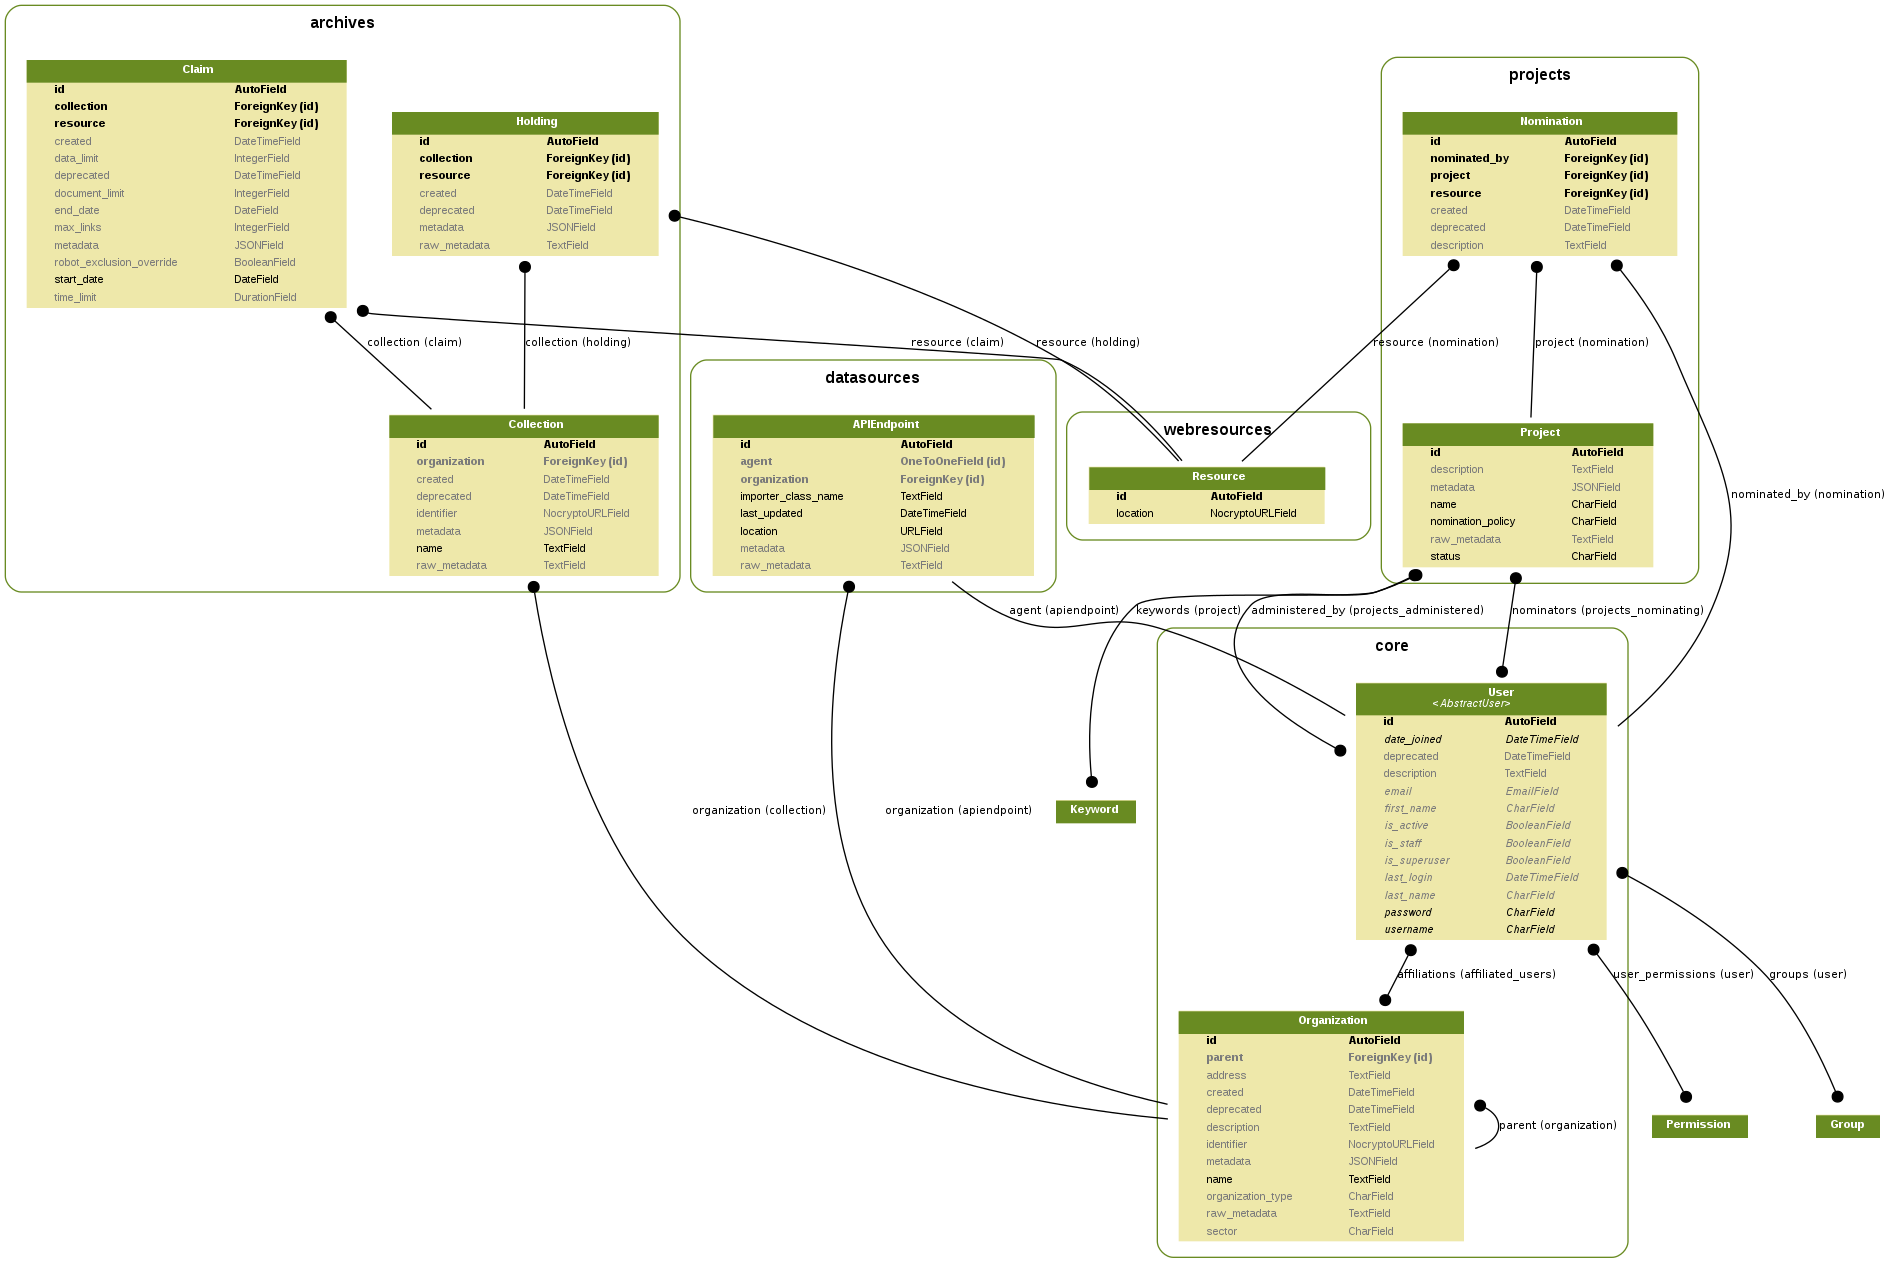
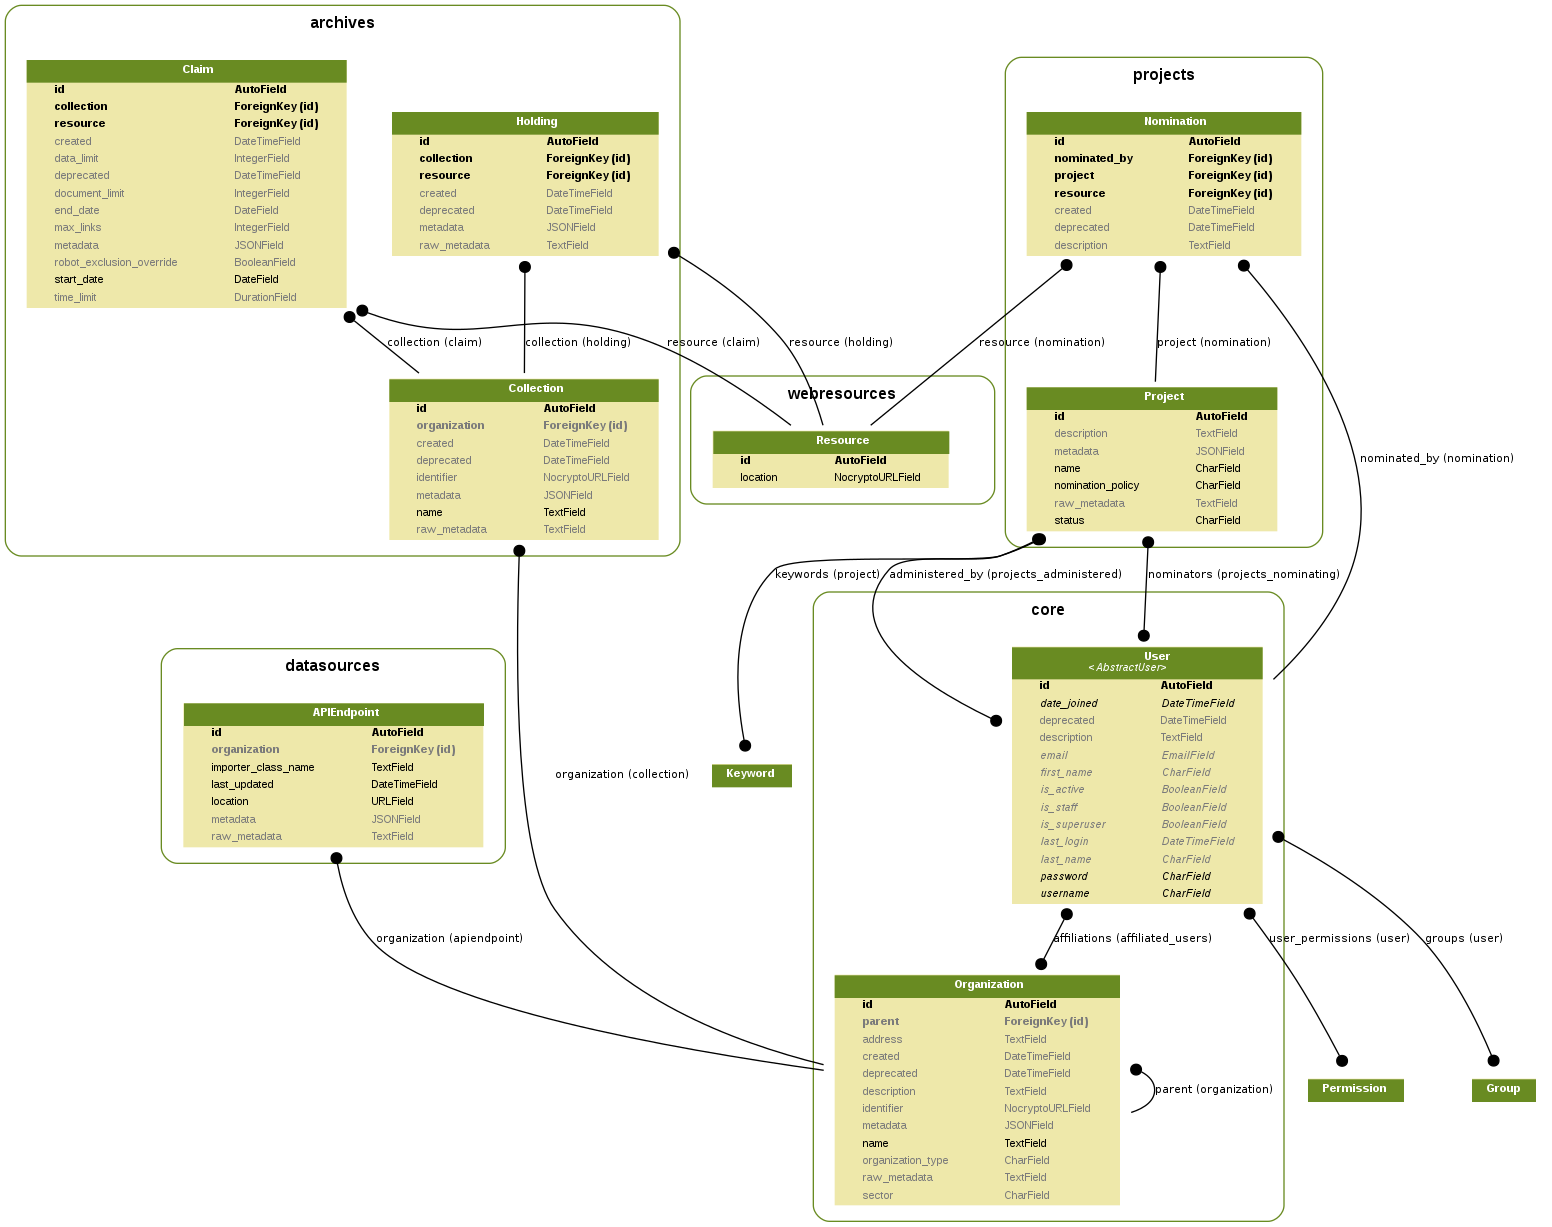
Removed 'agent' field for APIEndpoint This pointed to a User instance that was used to track changes w/ django-reversion. Instead, added a comment to the reversion.

diff --git a/datasources/models.py b/datasources/models.py
@@ -30,9 +30,6 @@ class APIEndpoint(models.Model):
                  ('AITCollectionsImporter', 'AITPartnerImporter')]
         )
 
-    agent = models.OneToOneField(settings.AUTH_USER_MODEL, editable=False,
-        null=True, blank=True)
-
     last_updated = models.DateTimeField(null=True, editable=False)
 
     metadata = JSONField(null=True, blank=True)
@@ -58,13 +55,6 @@ class APIEndpoint(models.Model):
     def harvest(self):
         self.get_importer().harvest()
         self.last_updated = timezone.now()
-
-    def get_agent(self):
-        if not self.agent:
-            self.agent = get_user_model().objects.get_or_create(
-                username = "APIEndpoint_agent_{}".format(self.id)
-            )[0]
-        return self.agent
 
     def __str__(self):
         return self.location or 'APIEndpoint {}'.format(self.pk)
@@ -95,7 +85,9 @@ class Importer:
 
     def harvest(self):
         with reversion.create_revision():
-            reversion.set_user(self.api.get_agent())
+            reversion.set_user(get_user_model.objects.get_or_create(
+                username="admin"))
+            reversion.set_comment("Imported from: {}".format(repr(self.api)))
             self.__harvest_all__()
 
     def __str__(self):

diff --git a/datasources/tests/tests_models.py b/datasources/tests/tests_models.py
@@ -21,10 +21,6 @@ class APIEndpointModelTests(TestCase):
         self.assertIsInstance(ait, models.APIEndpoint)
         self.assertEqual(ait.location, 'https://archive-it.org/oai')
 
-    def test_get_agent(self):
-        agent = self.test_instance.get_agent()
-        self.assertIsInstance(agent, get_user_model())
-
     def test_get_importer(self):
         importer = ( tests
             .APIEndpointFactory(importer_class_name='OAIPMHImporter')
